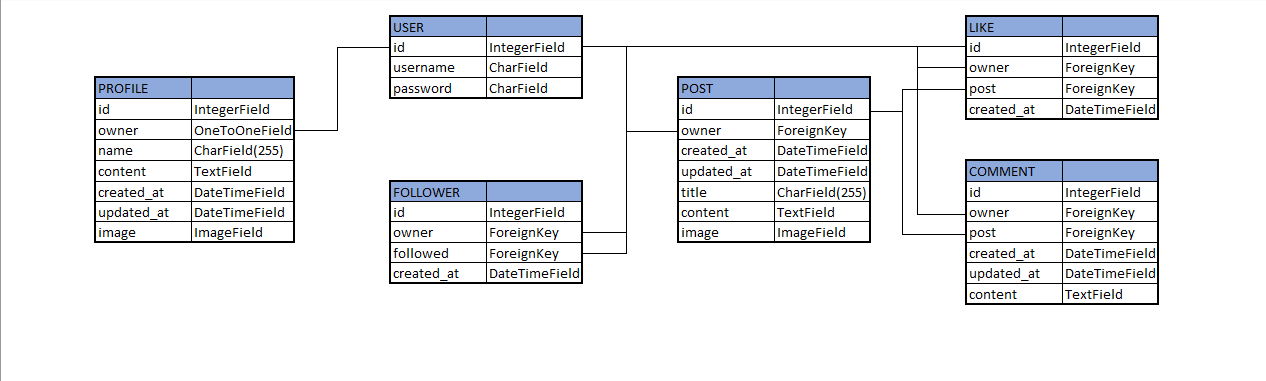
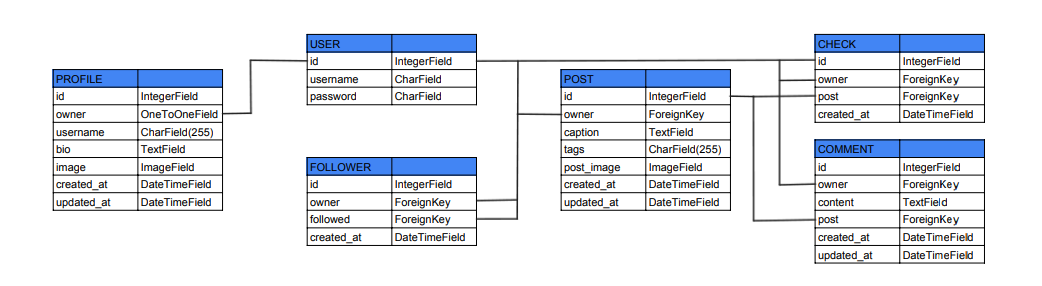
Update database diagram

Changed region(s): [[0.0307, 0.028, 0.952, 0.9231]]

diff --git a/README.md b/README.md
@@ -33,7 +33,7 @@ The following models were created to represent the database model structure of t
 - ForeignKey relation with the Check model owner field
 
 #### Profile Model
-- The Profile model contains the following fields: owner, created_at, updated_at, username, bio and profile_image.
+- The Profile model contains the following fields: owner, created_at, updated_at, username, bio and image.
 - One-to-one relation between the owner field and the User model id field.
 
 #### Post Model
